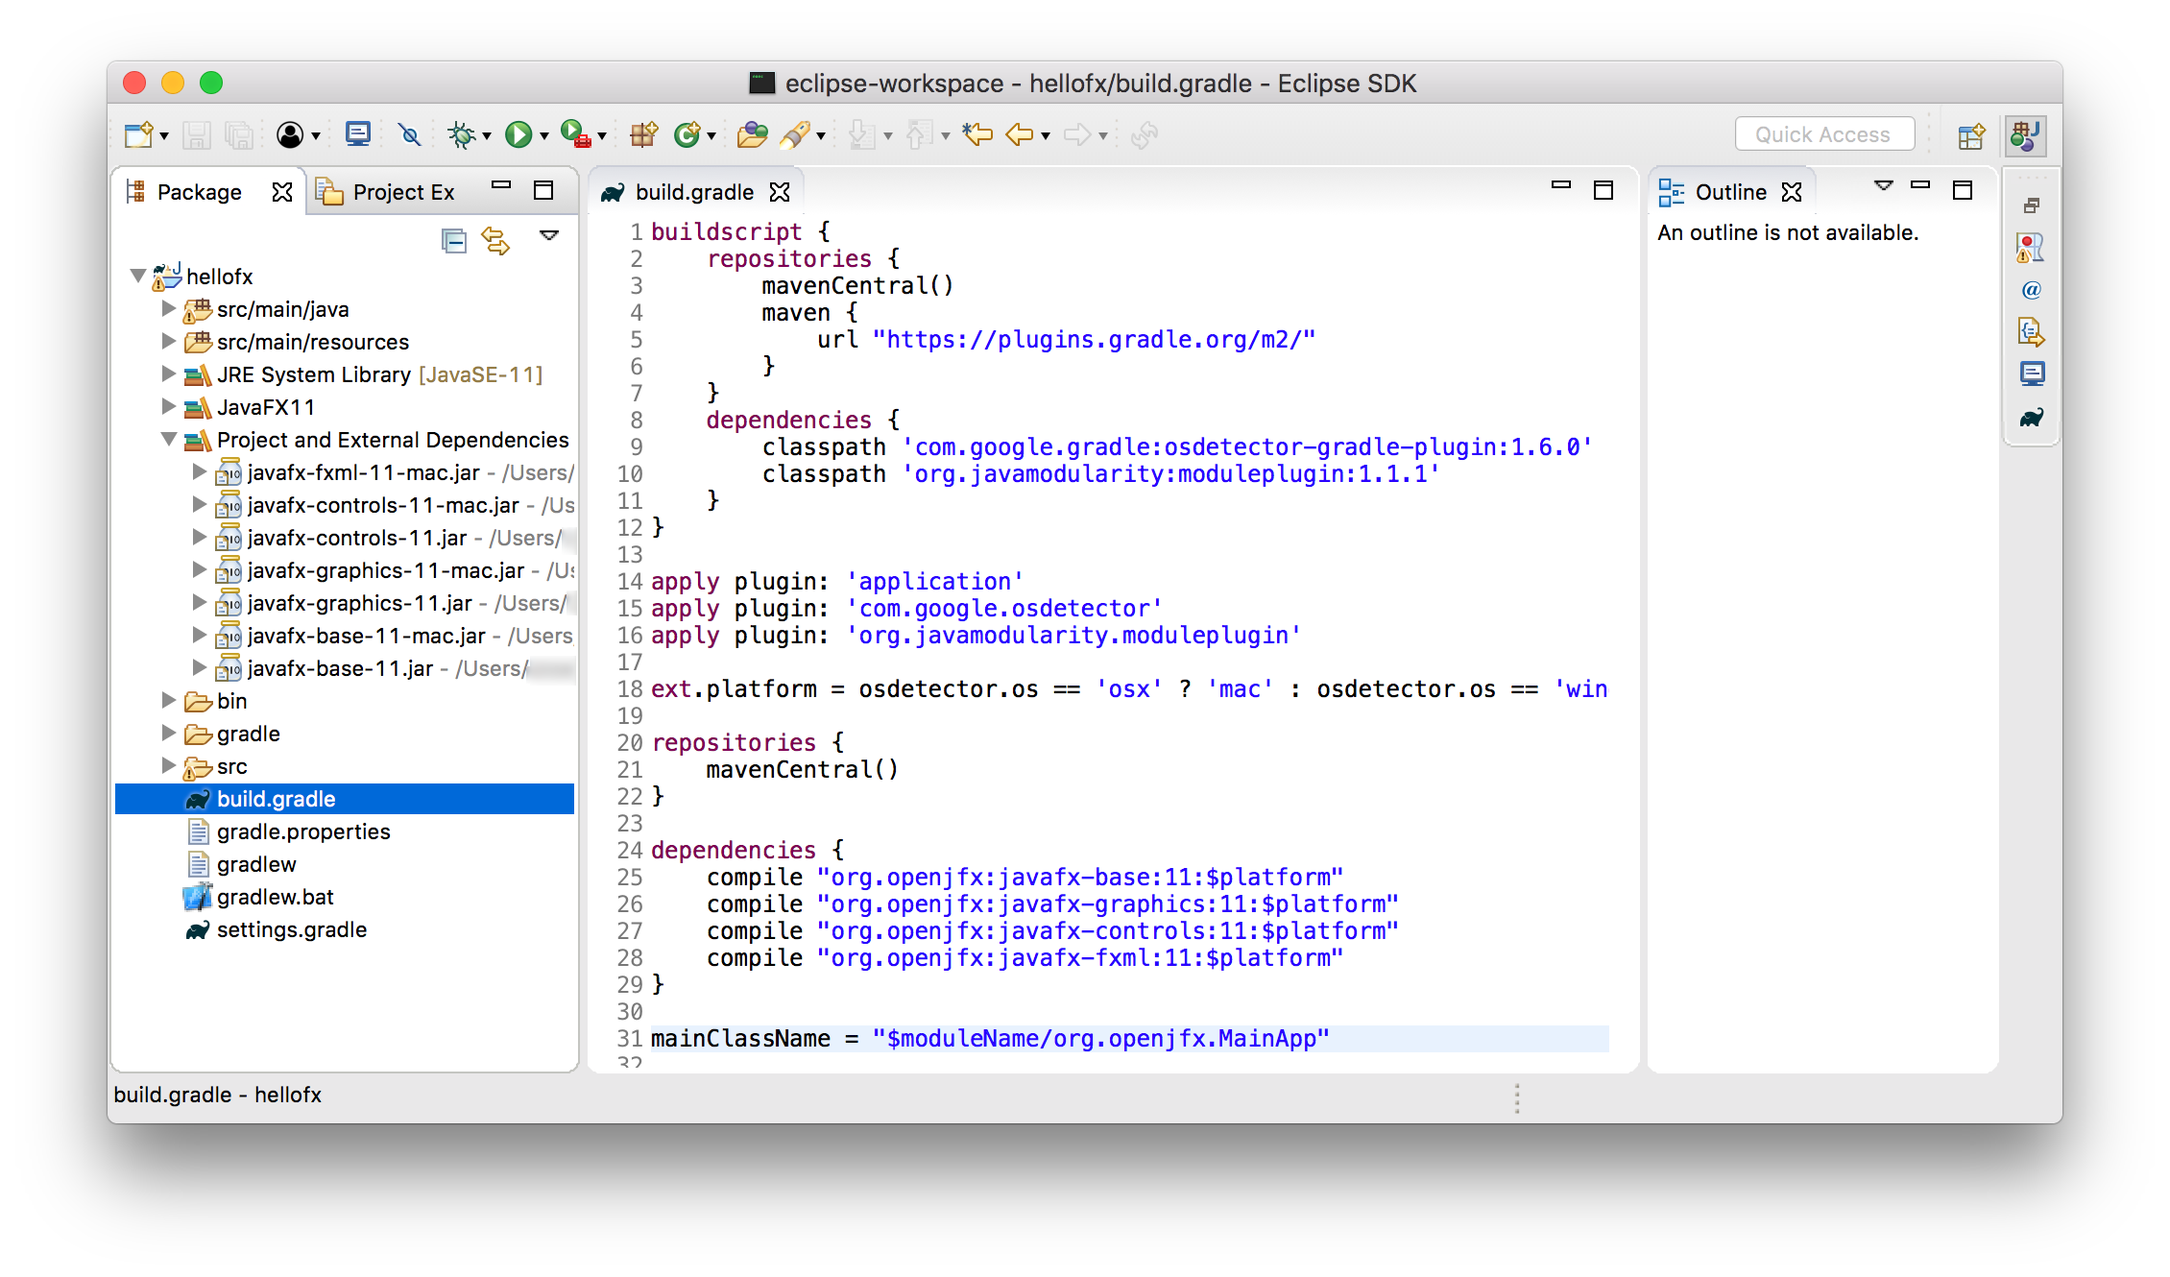
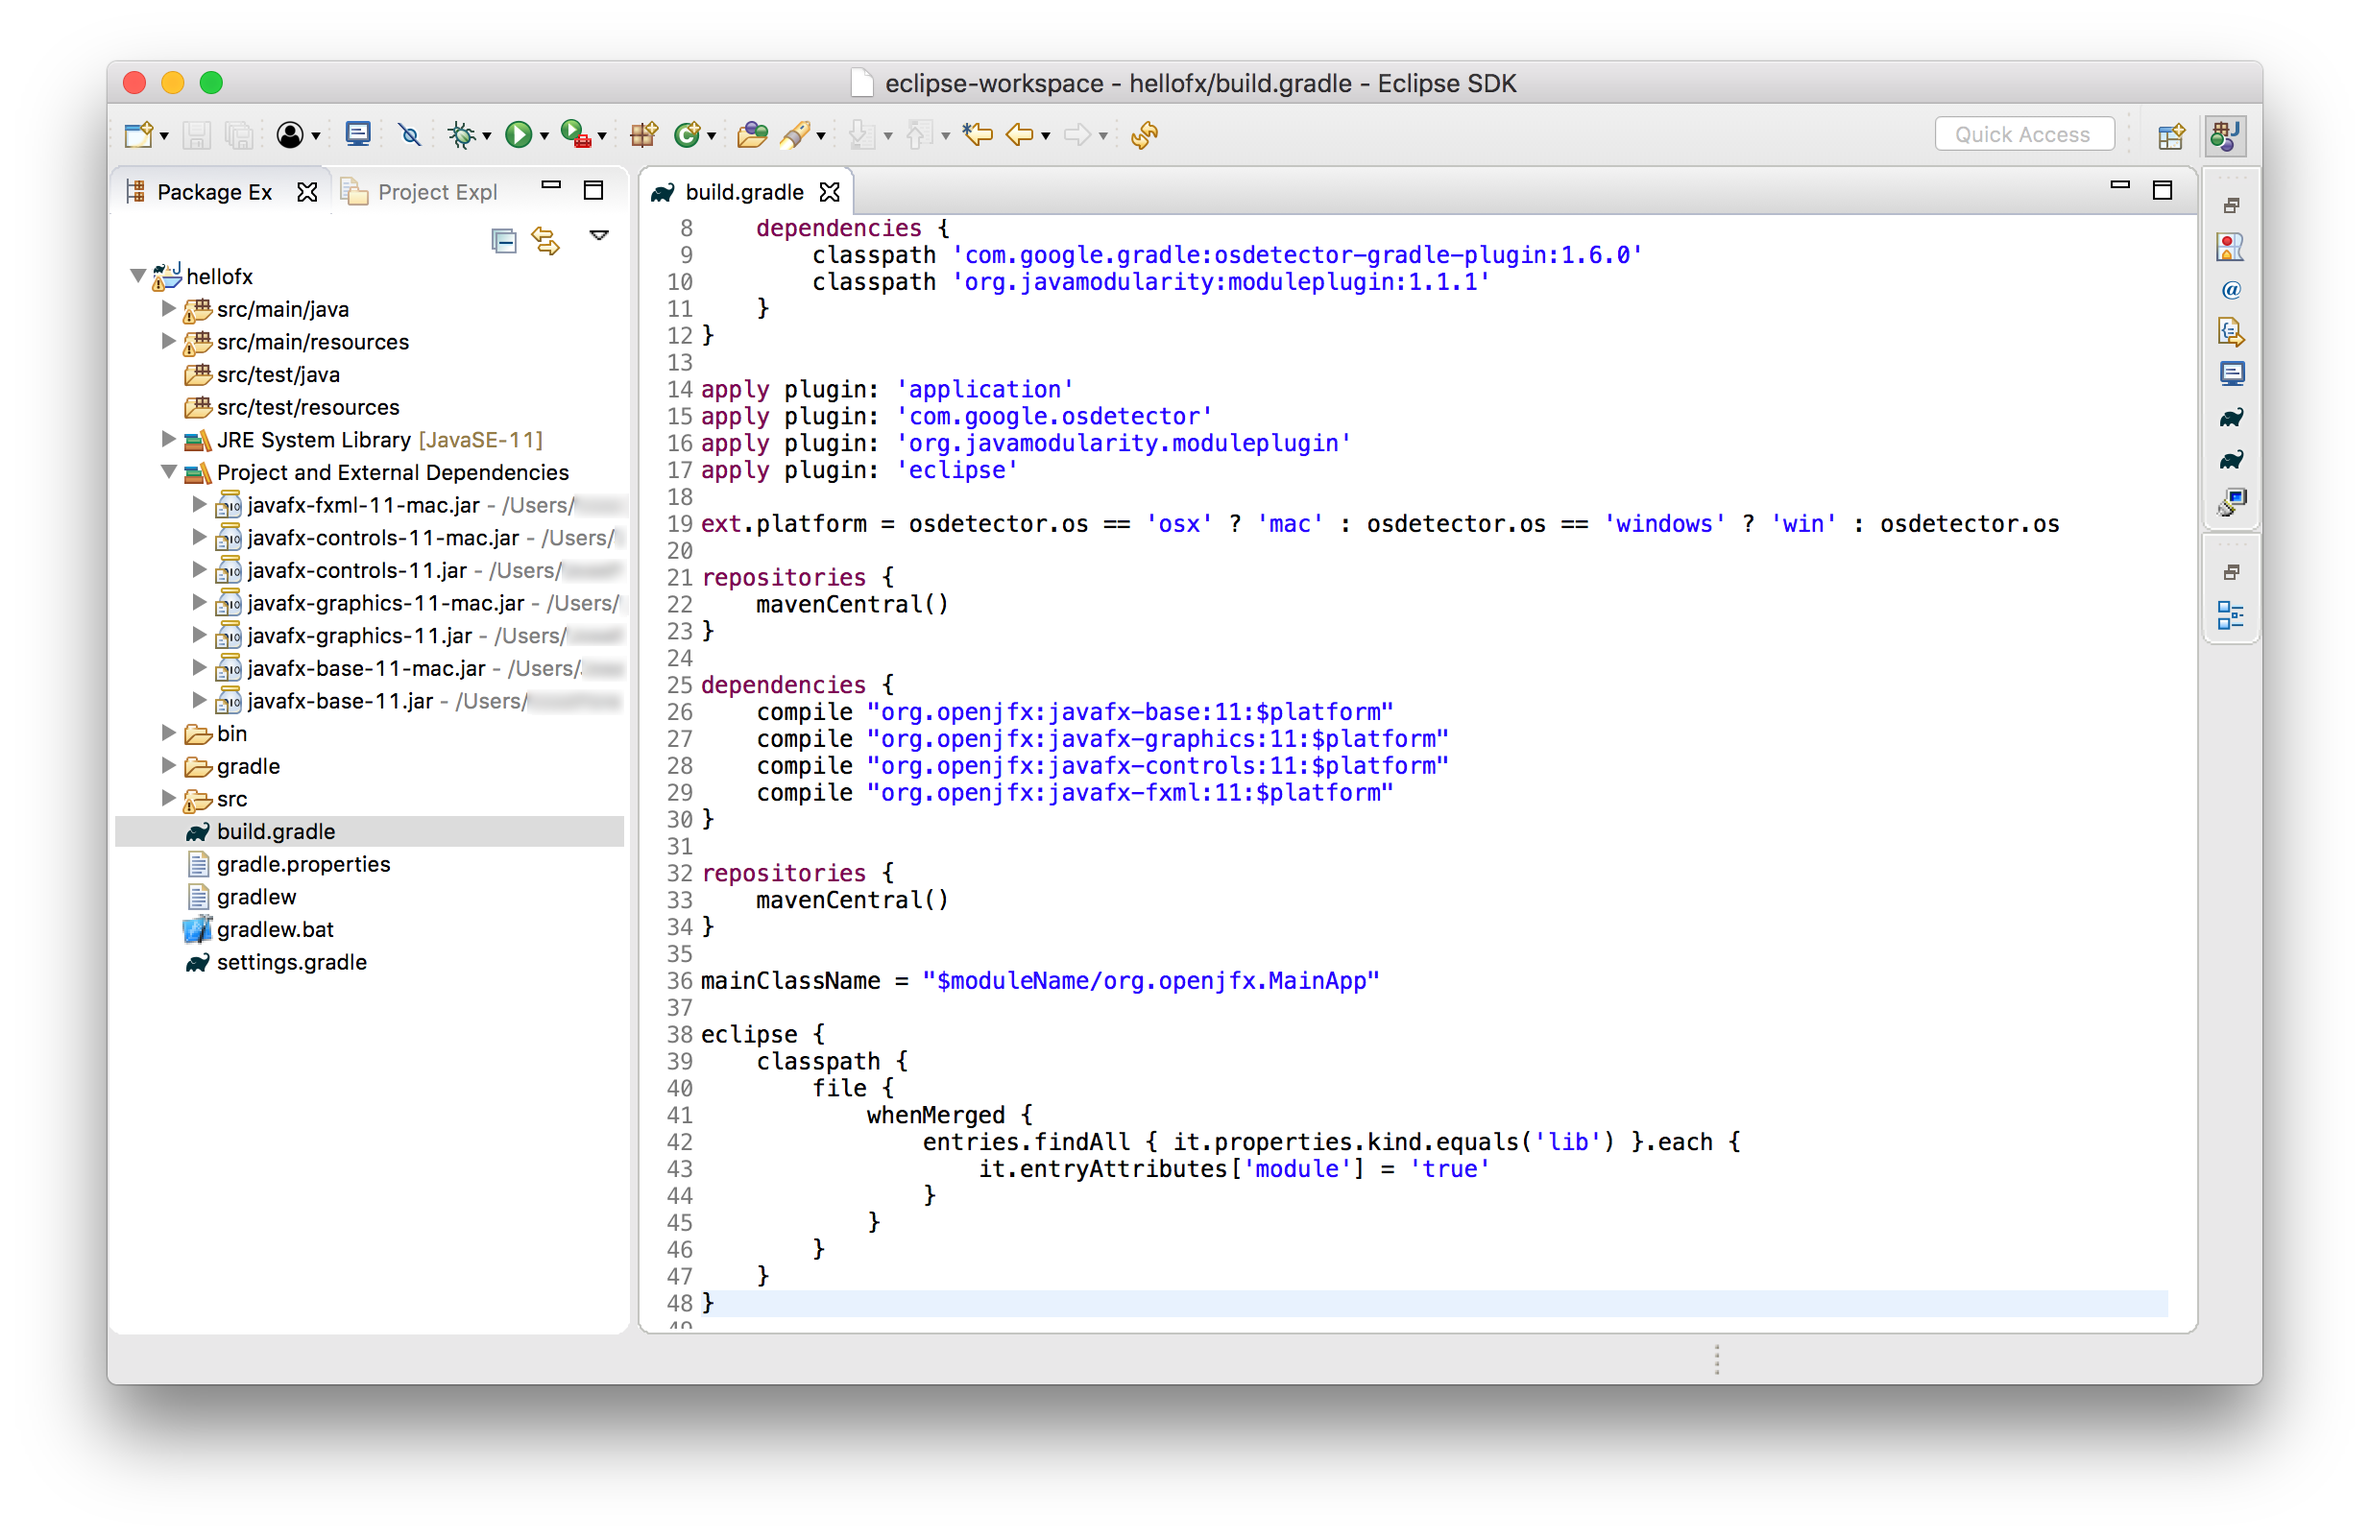
#32: Add eclipse plugin to prevent need of JavaFX SDK

Changed region(s): [[0.031, 0.0308, 0.9602, 0.9556], [0.6195, 0.5241, 0.7434, 0.5549], [0.8053, 0.3391, 0.8673, 0.3699]]

diff --git a/ide-eclipse.html b/ide-eclipse.html
@@ -664,6 +664,8 @@ jre\bin\java -m hellofx/org.openjfx.MainApp
     Note the use of the <kbd>org.javamodularity.moduleplugin</kbd> plugin, that removes the necessity of setting the module-path
     for the compile and run task.
     
+    Note also that the use of the <kbd>eclipse</kbd> plugin is required to include the modules to the module path.
+    
     <a href="images/ide/eclipse/modular/gradle/eclipse01.png" target="_blank"><img src="images/ide/eclipse/modular/gradle/eclipse01.png" alt="Update the build"/></a>
 </p>
 
@@ -678,12 +680,6 @@ jre\bin\java -m hellofx/org.openjfx.MainApp
     
     <a href="images/ide/eclipse/modular/gradle/eclipse02.png" target="_blank"><img src="images/ide/eclipse/modular/gradle/eclipse02.png" alt="module-info"/></a>
 </p>
-
-<div class="alert alert-danger">
-    <strong>Warning: </strong>
-    After adding the <kbd>module-info</kbd> class, Eclipse fails to resolve the JavaFX classpath, so the <kbd>JavaFX11</kbd> 
-    library has to be included in <kbd>Properties -> Java Build Path -> Libraries -> Modulepath</kbd>.
-</div>
 
 <h5>3. Add the source code</h5>
 
